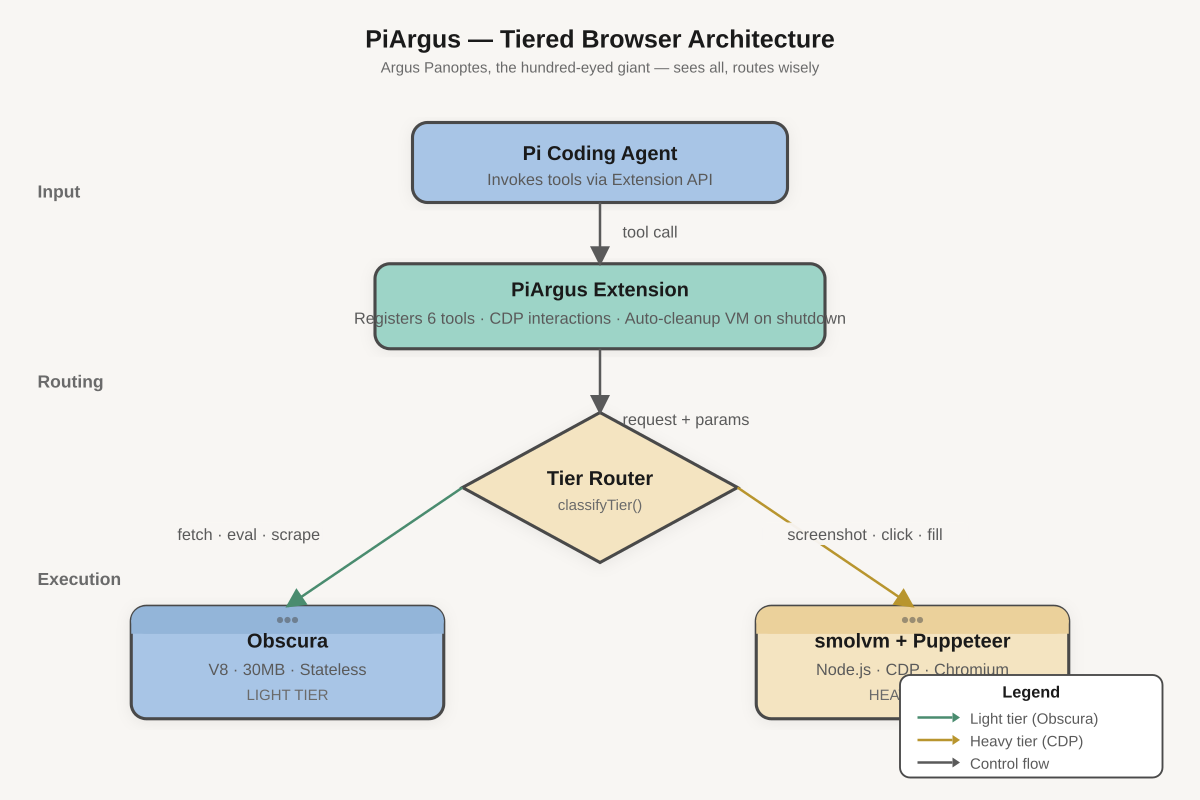
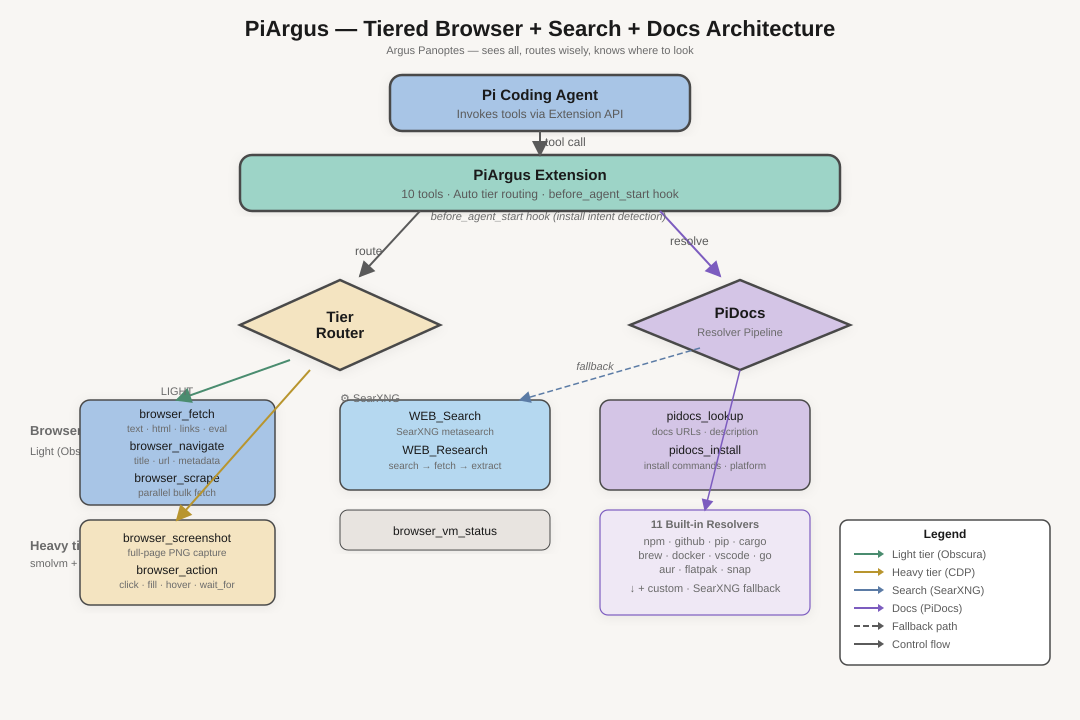
docs: update README and architecture chart for PiDocs
README changes:
- Add PiDocs section with pidocs_lookup and pidocs_install descriptions
- Document all 11 built-in resolvers with examples
- Add ~/.pidocs.json config example
- Update architecture table with Search and Docs tiers
- Update tools table (6 → 10 tools)
- Add source structure table for all modules
- Add WEB_Research to search section
- Mention before_agent_start auto-invocation hook

Architecture chart changes:
- Add PiDocs resolver pipeline (purple) alongside Tier Router
- Show 11 built-in resolvers box with custom/SearXNG fallback
- Add SearXNG fallback path (dashed) from PiDocs to search
- Add WEB_Search, WEB_Research to search tier box
- Add browser_vm_status box
- Update legend with purple (Docs) and dashed (fallback)
- Add before_agent_start hook annotation

diff --git a/README.md b/README.md
@@ -1,6 +1,6 @@
 # PiArgus
 
-**Two-tier browser extension for Pi** — Obscura (light) + smolvm/Chromium (heavy).
+**Two-tier browser + search + PiDocs extension for Pi** — Obscura (light) + smolvm/Chromium (heavy) + SearXNG search + package documentation resolver.
 
 Named for Argus Panoptes, the hundred-eyed giant of Greek myth who sees all.
 
@@ -8,8 +8,10 @@ Named for Argus Panoptes, the hundred-eyed giant of Greek myth who sees all.
 
 | Tier | Engine | Use Case |
 |------|--------|----------|
-| Light | Obscura (V8, 30MB) | Fetch, scrape, eval, links, text, search |
+| Light | Obscura (V8, 30MB) | Fetch, scrape, eval, links, text |
 | Heavy | smolvm + Chromium | Screenshots, clicks, forms, GPU rendering |
+| Search | SearXNG | Web search, research with page extraction |
+| Docs | Registry resolvers + SearXNG fallback | Package/app documentation & install commands |
 
 Routes automatically — no manual tier selection needed.
 
@@ -19,6 +21,8 @@ Routes automatically — no manual tier selection needed.
 
 `WEB_Search` queries a self-hosted [SearXNG](https://github.com/searxng/searxng) instance and returns ranked results (title, URL, snippet, source engines) from multiple search providers (Google, Brave, DuckDuckGo, etc.).
 
+`WEB_Research` performs deep research: search → fetch top results → keyword-extract relevant content. Returns scored paragraphs with source URLs.
+
 Set the environment variable to configure your instance:
 ```bash
 SEARXNG_URL=http://localhost:8080
@@ -26,17 +30,66 @@ SEARXNG_URL=http://localhost:8080
 
 If unset, the tool falls back to `http://192.168.100.105:30053`. Without a reachable SearXNG server, the tool returns a helpful configuration error.
 
-**Typical workflow:**
-1. `WEB_Search` → discover relevant pages
-2. `browser_fetch` → read the best result in detail
-3. `browser_screenshot` → visually verify if needed
+## PiDocs (Package & App Documentation)
+
+Two tools for resolving documentation URLs and install commands for any software — developer packages, desktop apps, and system services.
+
+**`pidocs_lookup`** — Find documentation URLs for a package or application:
+```
+pidocs_lookup(name: "ffmpeg", type: "brew")
+→ Resolver: brew, URLs: formulae.brew.sh/formula/ffmpeg, formulae.brew.sh/cask/ffmpeg
+
+pidocs_lookup(name: "@types/node", type: "npm")
+→ Resolver: npm, URLs: npmjs.com/package/@types/node
+```
+
+**`pidocs_install`** — Get install commands organized by platform:
+```
+pidocs_install(name: "nginx", platform: "linux")
+→ [linux/apt] sudo apt install nginx
+→ [cross-platform/docker] docker pull nginx
+```
+
+**Supported registries** (11 built-in + custom):
+| Registry | Key | Example |
+|----------|-----|---------|
+| npm | `npm` | `lodash`, `@types/node` |
+| GitHub | `github` | `octocat/Hello-World` |
+| PyPI | `pip` | `flask` |
+| crates.io | `cargo` | `tokio` |
+| Homebrew | `brew` | `ffmpeg` (formula + cask) |
+| Docker Hub | `docker` | `nginx` |
+| VS Code Marketplace | `vscode` | `ms-python.python` |
+| Go packages | `go` | `github.com/gin-gonic/gin` |
+| AUR | `aur` | `yay-bin` |
+| Flatpak | `flatpak` | `org.gimp.GIMP` |
+| Snap | `snap` | `code` |
+
+**Fallback**: If no built-in resolver matches, SearXNG search finds the documentation page.
+
+**Auto-invocation**: When the agent detects install intent (`"how to install ffmpeg"`, `"npm install lodash"`, `"add octocat/lib"`), it automatically injects a system prompt suggesting `pidocs_install` usage.
+
+**User config** (`~/.pidocs.json`) — disable specific resolvers or add custom ones:
+```json
+{
+  "searxngUrl": "http://localhost:8080",
+  "resolvers": {
+    "npm": { "enabled": true },
+    "brew": { "enabled": false },
+    "custom": [
+      { "name": " helm", "pattern": "^helm-/\\w+", "urlTemplate": "https://helm.sh/docs/helm/{name}", "type": "brew" }
+    ]
+  }
+}
+```
 
 ## Requirements
 
 - **Light tier**: [Obscura](https://github.com/obscura-browser/obscura) (`~/.local/bin/obscura`)
 - **Heavy tier**: [smolvm](https://smolmachines.com) (`~/.local/bin/smolvm`)
+- **Search**: SearXNG instance (local or remote)
 
-Heavy tier is optional — light tier works standalone.
+Heavy tier and search are optional — light tier works standalone.
 
 ## Install
 
@@ -60,10 +113,29 @@ npm test
 
 | Tool | Tier | Description |
 |------|------|-------------|
-| `WEB_Search` | Search | SearXNG metasearch (titles, URLs, snippets) |
+| `WEB_Search` | Search | SearXNG metasearch (titles, URLs, snippets, engines) |
+| `WEB_Research` | Search | Deep research: search → fetch → keyword-extract |
+| `pidocs_lookup` | Docs | Find documentation URLs for packages & apps |
+| `pidocs_install` | Docs | Get install commands organized by platform |
 | `browser_fetch` | Light | Fetch page as text/html/links/eval |
 | `browser_navigate` | Light | Navigate & get page metadata |
 | `browser_scrape` | Light | Bulk parallel scraping |
 | `browser_screenshot` | Heavy | Full-page screenshots via Puppeteer + Chromium |
 | `browser_action` | Dual | JS eval (light) or click/fill/hover (heavy) via CDP |
 | `browser_vm_status` | Both | Status check / pre-warm heavy VM |
+
+## Source Structure
+
+| File | Purpose |
+|------|---------|
+| `index.ts` | Extension entry point, browser tool registration |
+| `obscura.ts` | Light tier — Obscura V8 browser bindings |
+| `smolvm.ts` | Heavy tier — smolvm + Chromium + SearXNG VM management |
+| `tier-router.ts` | Auto-routes actions to light or heavy tier |
+| `web-search-core.ts` | SearXNG search + research logic |
+| `web-search.ts` | WEB_Search + WEB_Research tool registration |
+| `pidocs-resolvers.ts` | 11 built-in registry resolvers + type detection |
+| `pidocs-install-extract.ts` | Install command extraction from page text |
+| `pidocs-core.ts` | Resolver pipeline orchestration (built-in → SearXNG → fetch → extract) |
+| `pidocs.ts` | pidocs_lookup + pidocs_install tool registration + before_agent_start hook |
+| `types.ts` | Shared TypeScript types |
